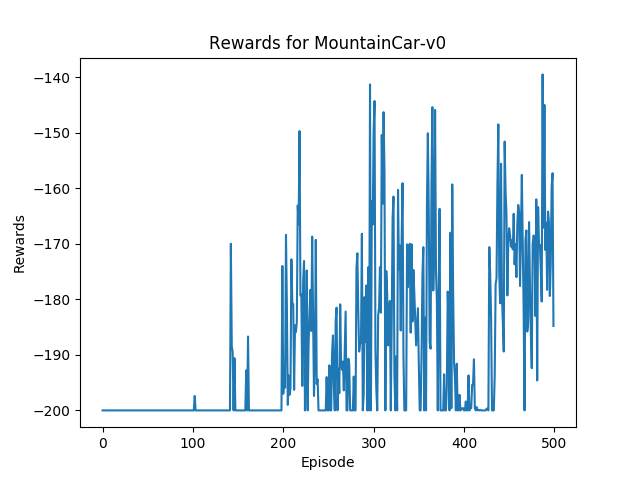
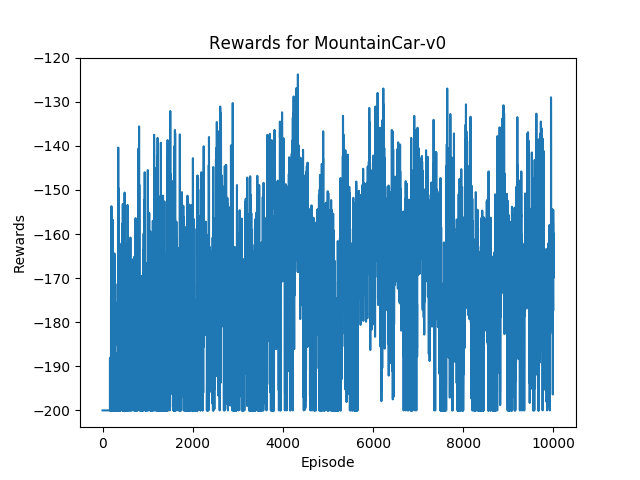
Rebase onto master complete

diff --git a/src/QLearning/classicControl.py b/src/QLearning/classicControl.py
@@ -75,11 +75,9 @@ class ClassicControl:
         if self.plotting: return self.test(visualise = False)
         return 0
 
-    #def getExploreRate(self): return max(self.minExploreRate, min(1, 5 - math.log10(self.trainingTime + 1)))
-    def getExploreRate(self): return self.minExploreRate
+    def getExploreRate(self): return max(self.minExploreRate, min(1, 5 - math.log10(self.trainingTime + 1))) if not self.fixedERate else self.minExploreRate
 
-    def getLearningRate(self): return max(self.minLearningRate, min(1, 5 - math.log10(self.trainingTime + 1)))
-    # def getLearningRate(self): return self.minLearningRate
+    def getLearningRate(self): return max(self.minLearningRate, min(1, 5 - math.log10(self.trainingTime + 1))) if not self.fixedLRate else self.minLearningRate
 
 
     def test(self, testEpisodes = 10, testMaxTime = 250, visualise = True):
@@ -126,9 +124,6 @@ def eGreedy(q, epsilon):
     aSize = len(q)
     u = rand.random()
     greedy = np.argmax(q)
-
-    # Decrease exploration over time
-    # epsilon = max(minExploreRate, min(1, 2.544 - math.log10(time + 1)))
     return greedy if u > epsilon else int(rand.random()*aSize)
 
 def greedy(q): return np.argmax(q)
@@ -148,12 +143,12 @@ def pause(): programPause = raw_input("Press the <ENTER> key to continue...")
 
 # pole = ClassicControl(game = 'CartPole-v0', bounds = [[-2.4, 2.4], [-2, 2], [-0.21, 0.21], [-2, 2]], nBuckets = [1, 1, 20, 20], aSize = 2)
 # pole.setLearningParameters(nEpisodes = 500, maxEpisodeLength = 200, discount = 0.99, minLearningRate = 0.05, minExploreRate = 0.1)
-# pole.learn(plot = True)
+# pole.learn(plot = False)
 # pause()
 # pole.test()
 
 car = ClassicControl(game = 'MountainCar-v0', bounds = [[-1.2, 1.2], [-0.07, 0.07]], nBuckets = [10, 30], aSize = 3)
-car.setLearningParameters(nEpisodes = 500, discount = 0.99, minLearningRate = 0.05, minExploreRate = 0.1)
+car.setLearningParameters(nEpisodes = 10000, discount = 0.99, minLearningRate = 0.05, minExploreRate = 0.1)
 car.learn(plot = True)
 pause()
 result = car.test()
